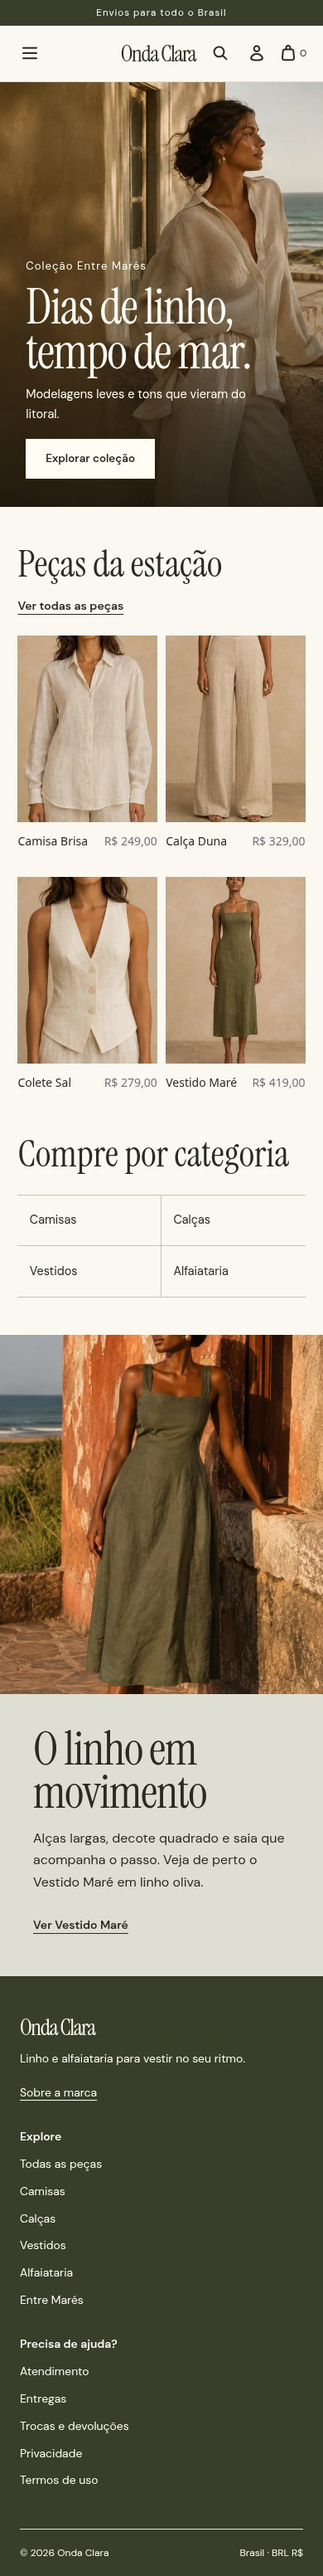
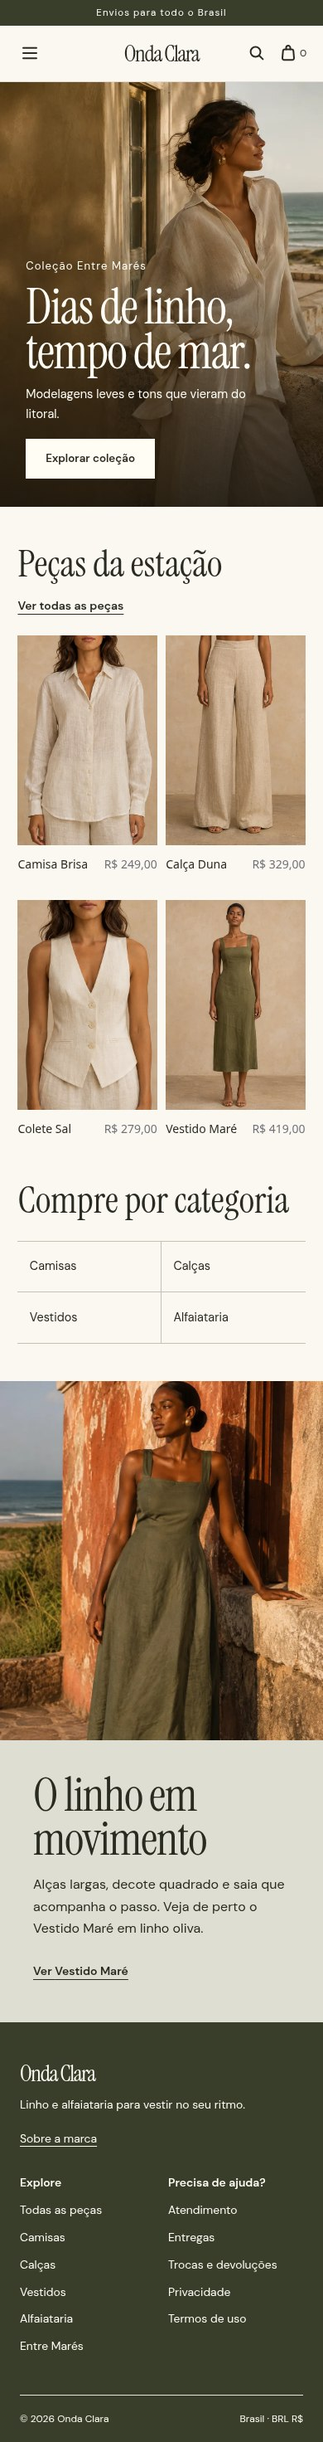
Refina a experiência móvel e isola a vitrine do checkout

diff --git a/apps/storefront/src/modules/order/components/payment-details/index.tsx b/apps/storefront/src/modules/order/components/payment-details/index.tsx
@@ -15,14 +15,14 @@ const PaymentDetails = ({ order }: PaymentDetailsProps) => {
   return (
     <div>
       <Heading level="h2" className="flex flex-row text-3xl-regular my-6">
-        Payment
+        Pagamento
       </Heading>
       <div>
         {payment && (
           <div className="flex items-start gap-x-1 w-full">
             <div className="flex flex-col w-1/3">
               <Text className="txt-medium-plus text-ui-fg-base mb-1">
-                Payment method
+                Forma de pagamento
               </Text>
               <Text
                 className="txt-medium text-ui-fg-subtle"
@@ -33,7 +33,7 @@ const PaymentDetails = ({ order }: PaymentDetailsProps) => {
             </div>
             <div className="flex flex-col w-2/3">
               <Text className="txt-medium-plus text-ui-fg-base mb-1">
-                Payment details
+                Detalhes do pagamento
               </Text>
               <div className="flex gap-2 txt-medium text-ui-fg-subtle items-center">
                 <Container className="flex items-center h-7 w-fit p-2 bg-ui-button-neutral-hover">
@@ -45,9 +45,9 @@ const PaymentDetails = ({ order }: PaymentDetailsProps) => {
                     : `${convertToLocale({
                         amount: payment.amount,
                         currency_code: order.currency_code,
-                      })} paid at ${new Date(
+                      })} · ${new Date(
                         payment.created_at ?? ""
-                      ).toLocaleString()}`}
+                      ).toLocaleString("pt-BR")}`}
                 </Text>
               </div>
             </div>

diff --git a/apps/storefront/src/app/[countryCode]/(main)/page.tsx b/apps/storefront/src/app/[countryCode]/(main)/page.tsx
@@ -44,24 +44,27 @@ export default async function Home(props: {
   params: Promise<{ countryCode: string }>
 }) {
   const { countryCode } = await props.params
-  const [region, { collections }, categories, origin, regions] =
+  const [region, { collections }, categories, origin, regions, editorialResult] =
     await Promise.all([
       getRegion(countryCode),
       listCollections({ fields: "id,handle,title" }),
       listCategories({ fields: "id,name,handle,parent_category_id" }),
       getSiteOrigin(),
       listRegions(),
+      listProducts({
+        countryCode,
+        queryParams: {
+          handle: brand.campaign.editorial.productHandle,
+          fields: "id,handle",
+          limit: 1,
+        },
+      }),
     ])
 
   const collection = collections.find(({ handle }) => handle === brand.campaign.collectionHandle)
   const catalogHref = collection ? `/collections/${collection.handle}` : "/store"
   const primaryCategories = categories.filter(({ parent_category_id }) => !parent_category_id).slice(0, 8)
-  const editorial = region
-    ? (await listProducts({
-        regionId: region.id,
-        queryParams: { handle: brand.campaign.editorial.productHandle, fields: "id,handle", limit: 1 },
-      })).response.products[0]
-    : undefined
+  const [editorial] = editorialResult.response.products
   const homeUrl = `${origin}/${countryCode}`
   const returnPolicies = buildRegionsReturnPolicies(regions)
   const structuredData = [

diff --git a/apps/storefront/src/proxy.ts b/apps/storefront/src/proxy.ts
@@ -88,16 +88,20 @@ async function getCountryCode(
  * Middleware to handle region selection and onboarding status.
  */
 export async function proxy(request: NextRequest) {
-  if (request.nextUrl.pathname.includes(".")) {
+  const path = request.nextUrl.pathname
+  const demo = process.env.OC_SHOWROOM === "1"
+  if (/^\/(?:api|buy|ucp|\.well-known\/ucp)(?:\/|$)/.test(path)) {
+    return demo ? new NextResponse(null, { status: 404 }) : NextResponse.next()
+  }
+
+  if (path.includes(".")) {
     return NextResponse.next()
   }
 
   const cacheIdCookie = request.cookies.get("_medusa_cache_id")
   const cacheId = cacheIdCookie?.value || crypto.randomUUID()
 
-  const demo = process.env.OC_SHOWROOM === "1"
-  const path = request.nextUrl.pathname
-  if (demo && /^\/(?:[a-z]{2}\/)?(?:checkout|account|cart|order)(?:\/|$)/i.test(path)) {
+  if (demo && /^\/(?:[a-z]{2}\/)?(?:checkout|account|cart|order|pagamento|verify-account)(?:\/|$)/i.test(path)) {
     return NextResponse.redirect(new URL("/br/sobre", request.url), 307)
   }
   const countryCode = demo ? "br" : await getCountryCode(request, await getRegionMap(cacheId))
@@ -132,6 +136,10 @@ export async function proxy(request: NextRequest) {
 
 export const config = {
   matcher: [
+    "/api/:path*",
+    "/buy/:path*",
+    "/ucp/:path*",
+    "/.well-known/ucp",
     "/((?!api|ucp|buy|_next/static|_next/image|favicon.ico|images|assets|png|svg|jpg|jpeg|gif|webp).*)",
   ],
 }

diff --git a/apps/storefront/src/modules/account/components/overview/index.tsx b/apps/storefront/src/modules/account/components/overview/index.tsx
@@ -19,7 +19,7 @@ const Overview = ({ customer, orders }: OverviewProps) => {
             Hello {customer?.first_name}
           </span>
           <span className="text-small-regular text-ui-fg-base">
-            Signed in as:{" "}
+            Conta{" "}
             <span
               className="font-semibold"
               data-testid="customer-email"
@@ -91,7 +91,7 @@ const Overview = ({ customer, orders }: OverviewProps) => {
                                 Número do pedido
                               </span>
                               <span className="font-semibold">
-                                Total amount
+                                Valor total
                               </span>
                               <span data-testid="order-created-date">
                                 {new Date(order.created_at).toDateString()}
@@ -114,7 +114,7 @@ const Overview = ({ customer, orders }: OverviewProps) => {
                               data-testid="open-order-button"
                             >
                               <span className="sr-only">
-                                Go to order #{order.display_id}
+                                Ver pedido nº {order.display_id}
                               </span>
                               <ChevronDown className="-rotate-90" />
                             </button>

diff --git a/apps/storefront/src/modules/checkout/components/shipping/index.tsx b/apps/storefront/src/modules/checkout/components/shipping/index.tsx
@@ -192,7 +192,7 @@ const Shipping: React.FC<ShippingProps> = ({
                 Método de entrega
               </span>
               <span className="mb-4 text-ui-fg-muted txt-medium">
-                How would you like you order delivered
+                Como você quer receber seu pedido?
               </span>
             </div>
             <div data-testid="delivery-options-container">
@@ -226,7 +226,7 @@ const Shipping: React.FC<ShippingProps> = ({
                           checked={showPickupOptions === PICKUP_OPTION_ON}
                         />
                         <span className="text-base-regular">
-                          Pick up your order
+                          Retirar o pedido
                         </span>
                       </div>
                       <span className="justify-self-end text-ui-fg-base">
@@ -305,7 +305,7 @@ const Shipping: React.FC<ShippingProps> = ({
                   Store
                 </span>
                 <span className="mb-4 text-ui-fg-muted txt-medium">
-                  Choose a store near you
+                  Escolha um local de retirada
                 </span>
               </div>
               <div data-testid="delivery-options-container">

diff --git a/apps/storefront/src/modules/products/components/product-actions/index.tsx b/apps/storefront/src/modules/products/components/product-actions/index.tsx
@@ -13,7 +13,6 @@ import { useParams, usePathname } from "next/navigation"
 import { FormEvent, useEffect, useMemo, useRef, useState } from "react"
 import ProductPrice from "../product-price"
 import MobileActions from "./mobile-actions"
-import { useRouter } from "next/navigation"
 
 type ProductActionsProps = {
   product: HttpTypes.StoreProduct
@@ -37,7 +36,6 @@ export default function ProductActions({
   product,
   disabled,
 }: ProductActionsProps) {
-  const router = useRouter()
   const pathname = usePathname()
   // Preselected on the server so the form posts a valid variant without JavaScript.
   // The page is statically rendered, so `?v_id=` is applied after hydration.
@@ -103,8 +101,8 @@ export default function ProductActions({
       params.delete("v_id")
     }
 
-    router.replace(pathname + (params.size ? "?" + params.toString() : ""), { scroll: false })
-  }, [selectedVariant, isValidVariant, isUrlVariantApplied, pathname, router])
+    window.history.replaceState(null, "", pathname + (params.size ? "?" + params.toString() : ""))
+  }, [selectedVariant, isValidVariant, isUrlVariantApplied, pathname])
 
   const inStock = useMemo(
     () => isVariantInStock(selectedVariant),

diff --git a/apps/storefront/src/app/not-found.tsx b/apps/storefront/src/app/not-found.tsx
@@ -5,23 +5,23 @@ import Link from "next/link"
 
 export const metadata: Metadata = {
   title: "404",
-  description: "Something went wrong",
+  description: "Página não encontrada",
 }
 
 export default function NotFound() {
   return (
-    <div className="flex flex-col gap-4 items-center justify-center min-h-[calc(100vh-64px)]">
-      <h1 className="text-2xl-semi text-ui-fg-base">Page not found</h1>
+    <main className="flex min-h-[calc(100vh-64px)] flex-col items-center justify-center gap-4 px-6 text-center">
+      <h1 className="oc-display text-5xl text-ui-fg-base">Página não encontrada</h1>
       <p className="text-small-regular text-ui-fg-base">
-        The page you tried to access does not exist.
+        A página pode ter mudado de endereço.
       </p>
       <Link className="flex gap-x-1 items-center group" href="/">
-        <Text className="text-ui-fg-interactive">Go to frontpage</Text>
+        <Text className="text-ui-fg-interactive">Voltar para o início</Text>
         <ArrowUpRightMini
           className="group-hover:rotate-45 ease-in-out duration-150"
           color="var(--fg-interactive)"
         />
       </Link>
-    </div>
+    </main>
   )
 }

diff --git a/apps/storefront/src/modules/order/components/shipping-details/index.tsx b/apps/storefront/src/modules/order/components/shipping-details/index.tsx
@@ -32,7 +32,7 @@ const ShippingDetails = ({ order }: ShippingDetailsProps) => {
           </Text>
           <Text className="txt-medium text-ui-fg-subtle">
             {order.shipping_address?.postal_code},{" "}
-            {order.shipping_address?.city}
+            {order.shipping_address?.city}{order.shipping_address?.province ? ` / ${order.shipping_address.province}` : ""}
           </Text>
           <Text className="txt-medium text-ui-fg-subtle">
             {order.shipping_address?.country_code?.toUpperCase()}
@@ -54,7 +54,7 @@ const ShippingDetails = ({ order }: ShippingDetailsProps) => {
           className="flex flex-col w-1/3"
           data-testid="shipping-method-summary"
         >
-          <Text className="txt-medium-plus text-ui-fg-base mb-1">Method</Text>
+          <Text className="txt-medium-plus text-ui-fg-base mb-1">Modalidade</Text>
           <Text className="txt-medium text-ui-fg-subtle">
             {(order.shipping_methods?.[0] as { name?: string })?.name} (
             {convertToLocale({

diff --git a/apps/storefront/src/app/[countryCode]/(main)/not-found.tsx b/apps/storefront/src/app/[countryCode]/(main)/not-found.tsx
@@ -4,17 +4,17 @@ import InteractiveLink from "@modules/common/components/interactive-link"
 
 export const metadata: Metadata = {
   title: "404",
-  description: "Something went wrong",
+  description: "Página não encontrada",
 }
 
 export default function NotFound() {
   return (
-    <div className="flex flex-col gap-4 items-center justify-center min-h-[calc(100vh-64px)]">
-      <h1 className="text-2xl-semi text-ui-fg-base">Page not found</h1>
+    <div className="flex min-h-[calc(100vh-64px)] flex-col items-center justify-center gap-4 px-6 text-center">
+      <h1 className="oc-display text-5xl text-ui-fg-base">Página não encontrada</h1>
       <p className="text-small-regular text-ui-fg-base">
-        The page you tried to access does not exist.
+        A página pode ter mudado de endereço.
       </p>
-      <InteractiveLink href="/">Go to frontpage</InteractiveLink>
+      <InteractiveLink href="/">Voltar para o início</InteractiveLink>
     </div>
   )
 }

diff --git a/apps/storefront/src/app/sitemap.ts b/apps/storefront/src/app/sitemap.ts
@@ -1,4 +1,5 @@
 import { sdk } from "@lib/config"
+import { showroom } from "@lib/showroom/catalog"
 import { listRegions } from "@lib/data/regions"
 import { getSiteOrigin, listCountryCodes } from "@lib/util/site"
 import type { MetadataRoute } from "next"
@@ -11,6 +12,7 @@ const STATIC_PATHS = [
   "/terms",
   "/privacy",
   "/contact",
+  "/sobre",
 ]
 const PAGE_SIZE = 200
 
@@ -30,6 +32,8 @@ async function listAll<T>(fetchPage: (offset: number) => Promise<Page<T>>) {
 type Entry = { handle?: string | null; updated_at?: string | Date | null }
 
 export default async function sitemap(): Promise<MetadataRoute.Sitemap> {
+  if (showroom) return []
+
   const query = { fields: "handle,updated_at", limit: PAGE_SIZE }
 
   const [origin, regions, products, categories, collections] = await Promise.all([

diff --git a/apps/storefront/src/modules/cart/templates/summary.tsx b/apps/storefront/src/modules/cart/templates/summary.tsx
@@ -28,7 +28,7 @@ const Summary = ({ cart }: SummaryProps) => {
   return (
     <div className="flex flex-col gap-y-4">
       <Heading level="h2" className="text-[2rem] leading-[2.75rem]">
-        Summary
+        Resumo
       </Heading>
       <DiscountCode cart={cart} />
       <Divider />
@@ -37,7 +37,7 @@ const Summary = ({ cart }: SummaryProps) => {
         href={"/checkout?step=" + step}
         data-testid="checkout-button"
       >
-        <Button className="w-full h-10">Finalizar compra</Button>
+        <Button className="oc-primary w-full">Finalizar compra</Button>
       </LocalizedClientLink>
     </div>
   )

diff --git a/apps/storefront/src/modules/account/components/order-overview/index.tsx b/apps/storefront/src/modules/account/components/order-overview/index.tsx
@@ -29,12 +29,12 @@ const OrderOverview = ({ orders }: { orders: HttpTypes.StoreOrder[] }) => {
     >
       <h2 className="text-large-semi">Nothing to see here</h2>
       <p className="text-base-regular">
-        You don&apos;t have any orders yet, let us change that {":)"}
+        Você ainda não fez nenhum pedido.
       </p>
       <div className="mt-4">
         <LocalizedClientLink href="/" passHref>
           <Button data-testid="continue-shopping-button">
-            Continue shopping
+            Continuar comprando
           </Button>
         </LocalizedClientLink>
       </div>
